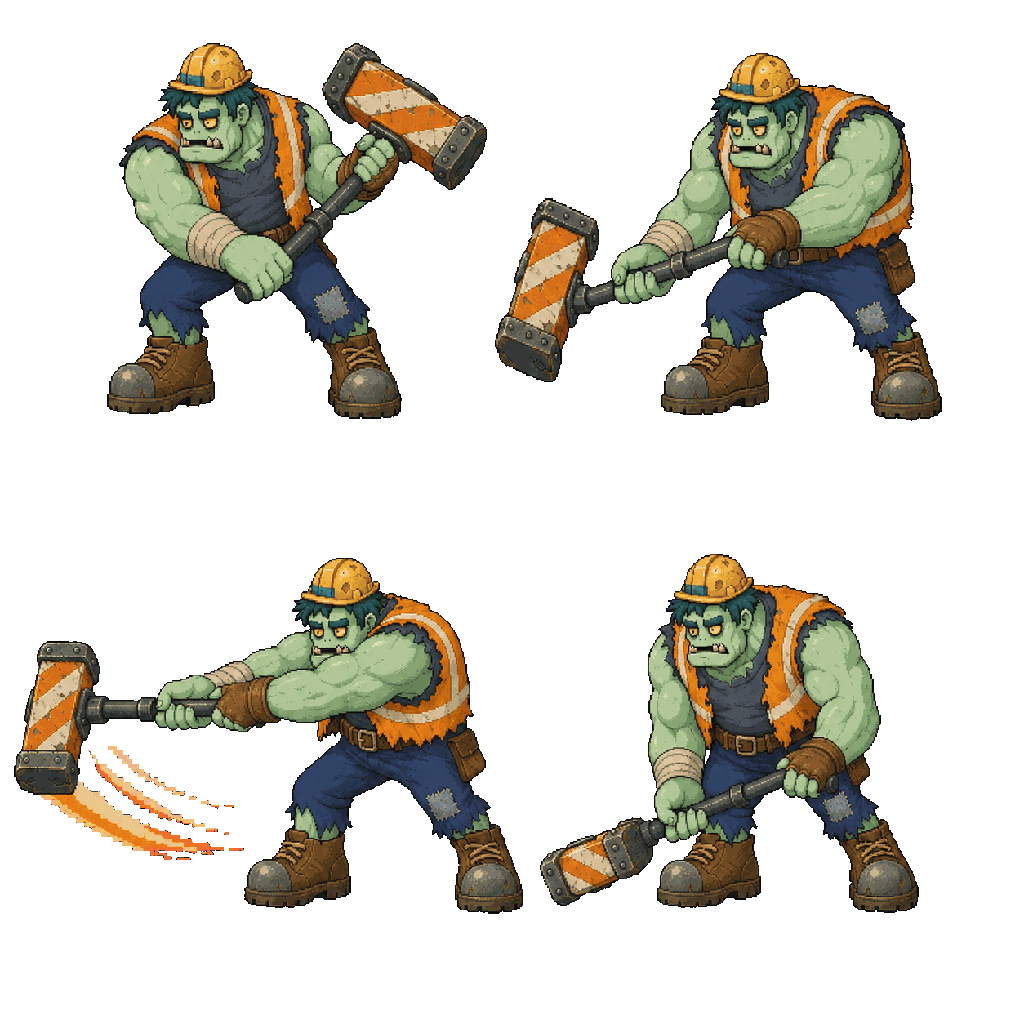
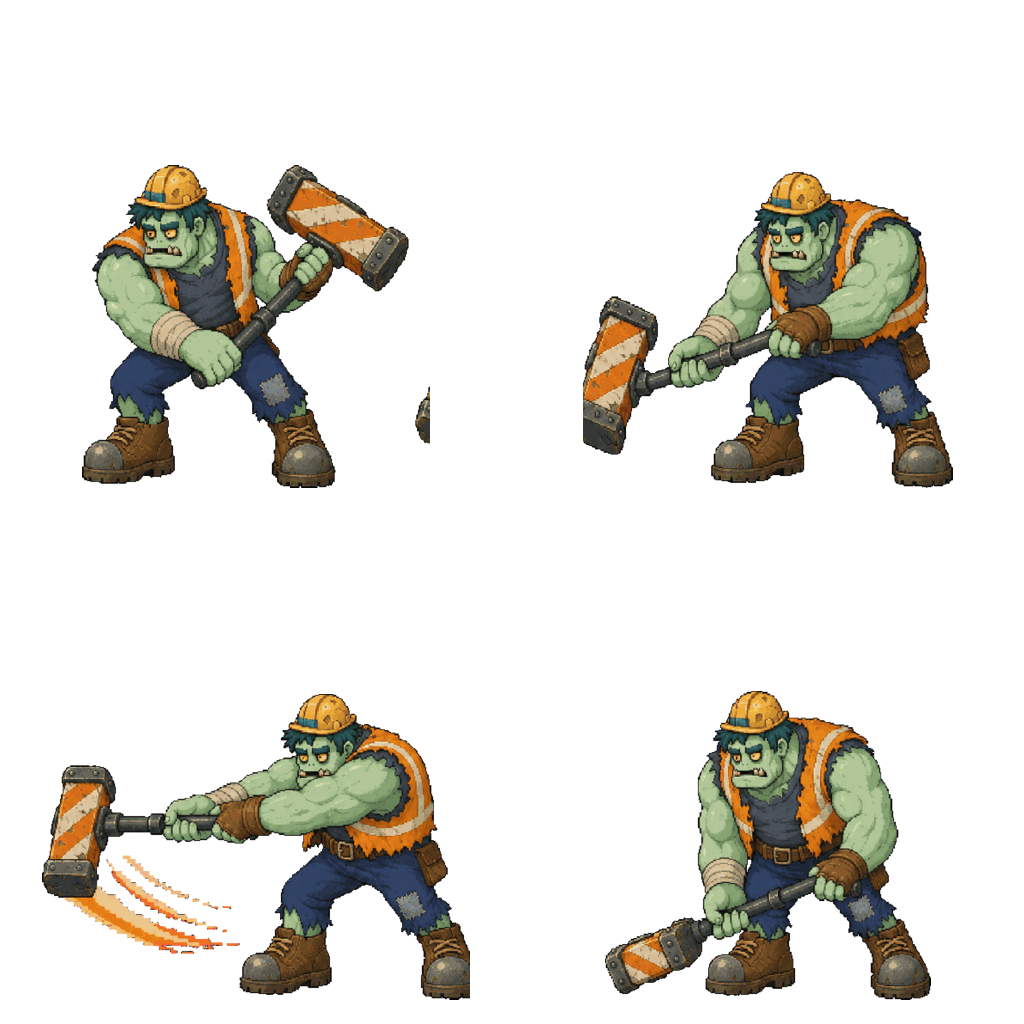
art: normalize Foreman and zombie dog atlases

diff --git a/docs/ASSET_MIGRATION.md b/docs/ASSET_MIGRATION.md
@@ -42,7 +42,7 @@ The source repository `Fishforgithub/tea-line-bot` is read-only. Copy only appro
 | `assets/enemies/zombie_crow/flight_sheet.png` | Six-frame generation derived from the zombie crow identity anchor | User-approved; 3×2 flight loop of 256×256 cells |
 | `assets/enemies/zombie_crow/action_sheet.png` | Three-pose generation derived from the zombie crow identity anchor | User-approved; dive, hurt, and defeated 256×256 cells |
 | `assets/enemies/zombie_dog/idle.png` | Approved original Stage 2 low-runner generation | User-approved; 256×256 transparent zombie dog identity anchor with stylized exposed bone |
-| `assets/enemies/zombie_dog/run_sheet.png` | Six-frame generation derived from the approved zombie dog identity anchor | User-approved; 3×2 sprint loop of 256×256 transparent cells |
+| `assets/enemies/zombie_dog/run_sheet.png` | Six-frame generation derived from the approved zombie dog identity anchor; normalized after engine atlas validation | User-approved repair; 3×2 sprint loop with adjacent-frame fragments removed, shared bottom-center baseline, and at least 12 px transparent margins |
 | `assets/enemies/zombie_dog/action_sheet.png` | Three-pose generation derived from the approved zombie dog identity anchor | User-approved; pounce, hurt, and defeated 256×256 transparent cells |
 | `assets/enemies/zombie_nurse/idle.png` | Approved original Stage 2 support-enemy generation | User-approved; 256×256 transparent zombie nurse identity anchor with bandage-roll loadout |
 | `assets/enemies/zombie_nurse/walk_sheet.png` | Six-frame generation derived from the approved zombie nurse identity anchor | User-approved corrected 3×2 shamble loop with distinct contact, down, and passing poses |
@@ -65,10 +65,10 @@ The source repository `Fishforgithub/tea-line-bot` is read-only. Copy only appro
 | `assets/tilesets/stage2/hospital_ground_tiles.png` | Project-specific tile generation derived from the approved Stage 2 hospital direction | Art-production self-reviewed; basic, cracked, drain, and puddle variants in four aligned transparent 256×256 cells |
 | `assets/props/stage2/hospital_props.png` | Project-specific prop generation derived from the approved Stage 2 hospital direction | Art-production self-reviewed; empty gurney, IV stand, supply cabinet, and tipped paired chair in four transparent 256×256 cells at shared scale |
 | `assets/bosses/stage1_foreman/idle.png` | Approved original Stage 1 boss generation | Approved; 512×512 transparent Undead Foreman identity anchor |
-| `assets/bosses/stage1_foreman/walk_sheet.png` | Four-frame generation derived from the Undead Foreman identity anchor | Approved; 2×2 heavy-walk sheet of 512×512 cells |
-| `assets/bosses/stage1_foreman/sweep_sheet.png` | Four-frame generation derived from the Undead Foreman identity anchor | Approved; 2×2 horizontal-sweep sheet of 512×512 cells |
-| `assets/bosses/stage1_foreman/slam_sheet.png` | Four-frame generation derived from the Undead Foreman identity anchor | Approved; 2×2 ground-slam sheet of 512×512 cells |
-| `assets/bosses/stage1_foreman/reaction_sheet.png` | Four-pose generation derived from the Undead Foreman identity anchor | Approved; 2×2 hurt, rage, stunned, and defeated state sheet |
+| `assets/bosses/stage1_foreman/walk_sheet.png` | Four-frame generation derived from the Undead Foreman identity anchor; normalized after engine atlas validation | User-approved repair; 2×2 heavy-walk sheet with shared scale, baseline, and safe margins |
+| `assets/bosses/stage1_foreman/sweep_sheet.png` | Four-frame generation derived from the Undead Foreman identity anchor; normalized after engine atlas validation | User-approved repair; 2×2 horizontal-sweep sheet with owned trails and no adjacent-cell fragments |
+| `assets/bosses/stage1_foreman/slam_sheet.png` | Four-frame generation derived from the Undead Foreman identity anchor; normalized after engine atlas validation | User-approved repair; 2×2 ground-slam sheet with owned impact debris and no adjacent-cell fragments |
+| `assets/bosses/stage1_foreman/reaction_sheet.png` | Four-pose generation derived from the Undead Foreman identity anchor; normalized after engine atlas validation | User-approved repair; 2×2 hurt, rage, stunned, and defeated sheet with safe margins |
 | `assets/backgrounds/stage1/city_far.png` | Approved original project-specific Stage 1 background generation | Approved; 960×540 indexed-color opaque background |
 | `assets/tilesets/stage1/ground_tiles.png` | Approved original project-specific Stage 1 tile generation | Approved; four transparent 256×256 ground cells |
 | `assets/props/stage1/street_props.png` | Approved original project-specific Stage 1 prop generation | Approved; crate, cone, bags, and hydrant |

diff --git a/docs/ART_REQUEST_QUEUE.md b/docs/ART_REQUEST_QUEUE.md
@@ -63,4 +63,55 @@ Copy this block for each request. Keep one stable request ID for all revisions.
 
 ## Active requests
 
-No implementation-authored UI requests are queued yet.
+### AR-20260716-001 — Stage result panel
+
+- Status: ready
+- Godot consumer: `StageResultScreen/Overlay/ResultPanel` (`NinePatchRect`)
+- Deliverable path: `assets/ui/stage_result_panel.png`
+- Pixel dimensions: 384 x 256
+- NinePatch margins: 32 px on every side
+- Text policy: no baked text, values, rewards, or controls
+
+### AR-20260716-002 — Next-stage card states
+
+- Status: ready
+- Godot consumer: `StageResultScreen/Overlay/ResultPanel/NextStageCard` (`TextureButton`)
+- Deliverable path: `assets/ui/stage_card_frames.png`
+- Pixel dimensions: 960 x 256; five 192 x 256 cells
+- Layout/order: normal, hover, pressed, selected, locked
+- Text policy: no baked stage names, status, or rewards
+
+### AR-20260716-003 — Upgrade shop card panel
+
+- Status: ready
+- Godot consumer: weapon and pet upgrade `NinePatchRect` panels
+- Deliverable path: `assets/ui/upgrade_card_panel.png`
+- Pixel dimensions: 192 x 192
+- NinePatch margins: 24 px on every side
+- Text policy: neutral reusable frame with no category, price, level, or statistics baked in
+
+### AR-20260716-004 — Upgrade button states
+
+- Status: ready
+- Godot consumer: weapon and pet upgrade button `StyleBoxTexture` states
+- Deliverable path: `assets/ui/upgrade_button_states.png`
+- Pixel dimensions: 768 x 48; four 192 x 48 cells
+- Layout/order: normal, hover/focus, pressed, disabled
+- NinePatch margins: 12 px on every side of each cell
+- Text policy: no baked label, value, or currency
+
+## Delivered engine repair requests
+
+### AR-20260716-005 — Normalize Foreman animation cells
+
+- Status: delivered
+- Deliverables: `assets/bosses/stage1_foreman/walk_sheet.png`, `sweep_sheet.png`, `slam_sheet.png`, and `reaction_sheet.png`
+- Result: user-approved; global 86% scale, shared bottom-center baseline, detached adjacent-cell fragments removed, and safe transparent margins in every 512 x 512 cell
+- Delivery commit: the art-branch commit containing this queue update
+
+### AR-20260719-006 — Normalize zombie dog run cells
+
+- Status: delivered
+- Deliverable: `assets/enemies/zombie_dog/run_sheet.png`
+- Result: user-approved; six-frame order preserved, shared bottom-center baseline, frame-boundary fragments removed, and at least 12 px transparent margins in every 256 x 256 cell
+- Delivery commit: the art-branch commit containing this queue update

diff --git a/docs/ART_ASSET_MANIFEST.md b/docs/ART_ASSET_MANIFEST.md
@@ -74,6 +74,8 @@ The authored direction is left-facing. Display as-is while running/attacking lef
 
 Keep the torso collision shape at a stable local offset across the full run cycle; do not move or resize gameplay collision to follow the extended forelegs, hind legs, tail, or exposed ribs. The long airborne stride at frame index 2 is still part of the looping sprint and does not by itself trigger pounce damage.
 
+The run sheet was normalized after engine atlas validation: every 256 x 256 cell is independently contained with at least 12 transparent pixels on every edge, adjacent-frame fragments are removed, and all six poses share one bottom-center baseline. Do not re-trim individual frames during import.
+
 For `pounce`, move the enemy body along a short authored gameplay arc and enable the bite hitbox only during the active overlap window; the pose alone must not deal continuous damage. `hurt` cancels pounce damage and uses backward knockback. `defeated` permanently disables navigation, damage, and collision before holding the collapsed pose for cleanup.
 
 ### Zombie nurse
@@ -194,6 +196,8 @@ Boss frame cells are `512 x 512`, not the normal `256 x 256`. The authored direc
 | `assets/bosses/stage1_foreman/reaction_sheet.png` | 2 x 2, four independent 512 x 512 poses | index 0 `hurt`, 1 `rage`, 2 `stunned`, 3 `defeated` | State-selected key poses; do not loop as one animation |
 
 Use separate authored shapes for the boss body, vulnerable area, and road-barrier hammer. Never include the extended hammer in the persistent body hurtbox. Activate weapon hitboxes only during documented attack windows. For `sweep`, frame index 2 owns the wide leftward attack area; frames 0, 1, and 3 must not damage the player. For `slam`, frame index 2 owns the local impact hitbox and spawns one leftward plus one rightward ground shockwave at the hammer contact point. The `rage` pose is the phase-two transition, `stunned` disables attacks and opens the vulnerable window, and `defeated` disables all damage/collision before stage-clear timing. Preserve the bottom-center pivot when switching animations so the large sprite does not jump vertically.
+
+The four Foreman sheets were normalized after engine atlas validation. All poses use one global 86% scale and a shared bottom-center baseline, detached neighboring-cell fragments are removed, and every 512 x 512 cell now has safe transparent margins. Import the documented cell regions directly; do not auto-crop frames independently.
 
 ## Stage 1 environment
 

diff --git a/docs/ART_PRODUCTION_STATUS.md b/docs/ART_PRODUCTION_STATUS.md
@@ -35,6 +35,8 @@ Stage 2 hospital character production is underway:
 - modular hospital wall, closed-door, open-doorway, and observation-window backgrounds are delivered
 - hospital gurney, IV stand, supply cabinet, and tipped waiting-chair prop set is delivered
 - four-phase electric-puddle corridor hazard is delivered with a documented safe window and active damage frame
+- Foreman walk, sweep, slam, and reaction sheets are user-approved after atlas-cell normalization
+- zombie-dog run sheet is user-approved after adjacent-fragment removal and baseline normalization
 
 ## Stage 1 boss completion
 
